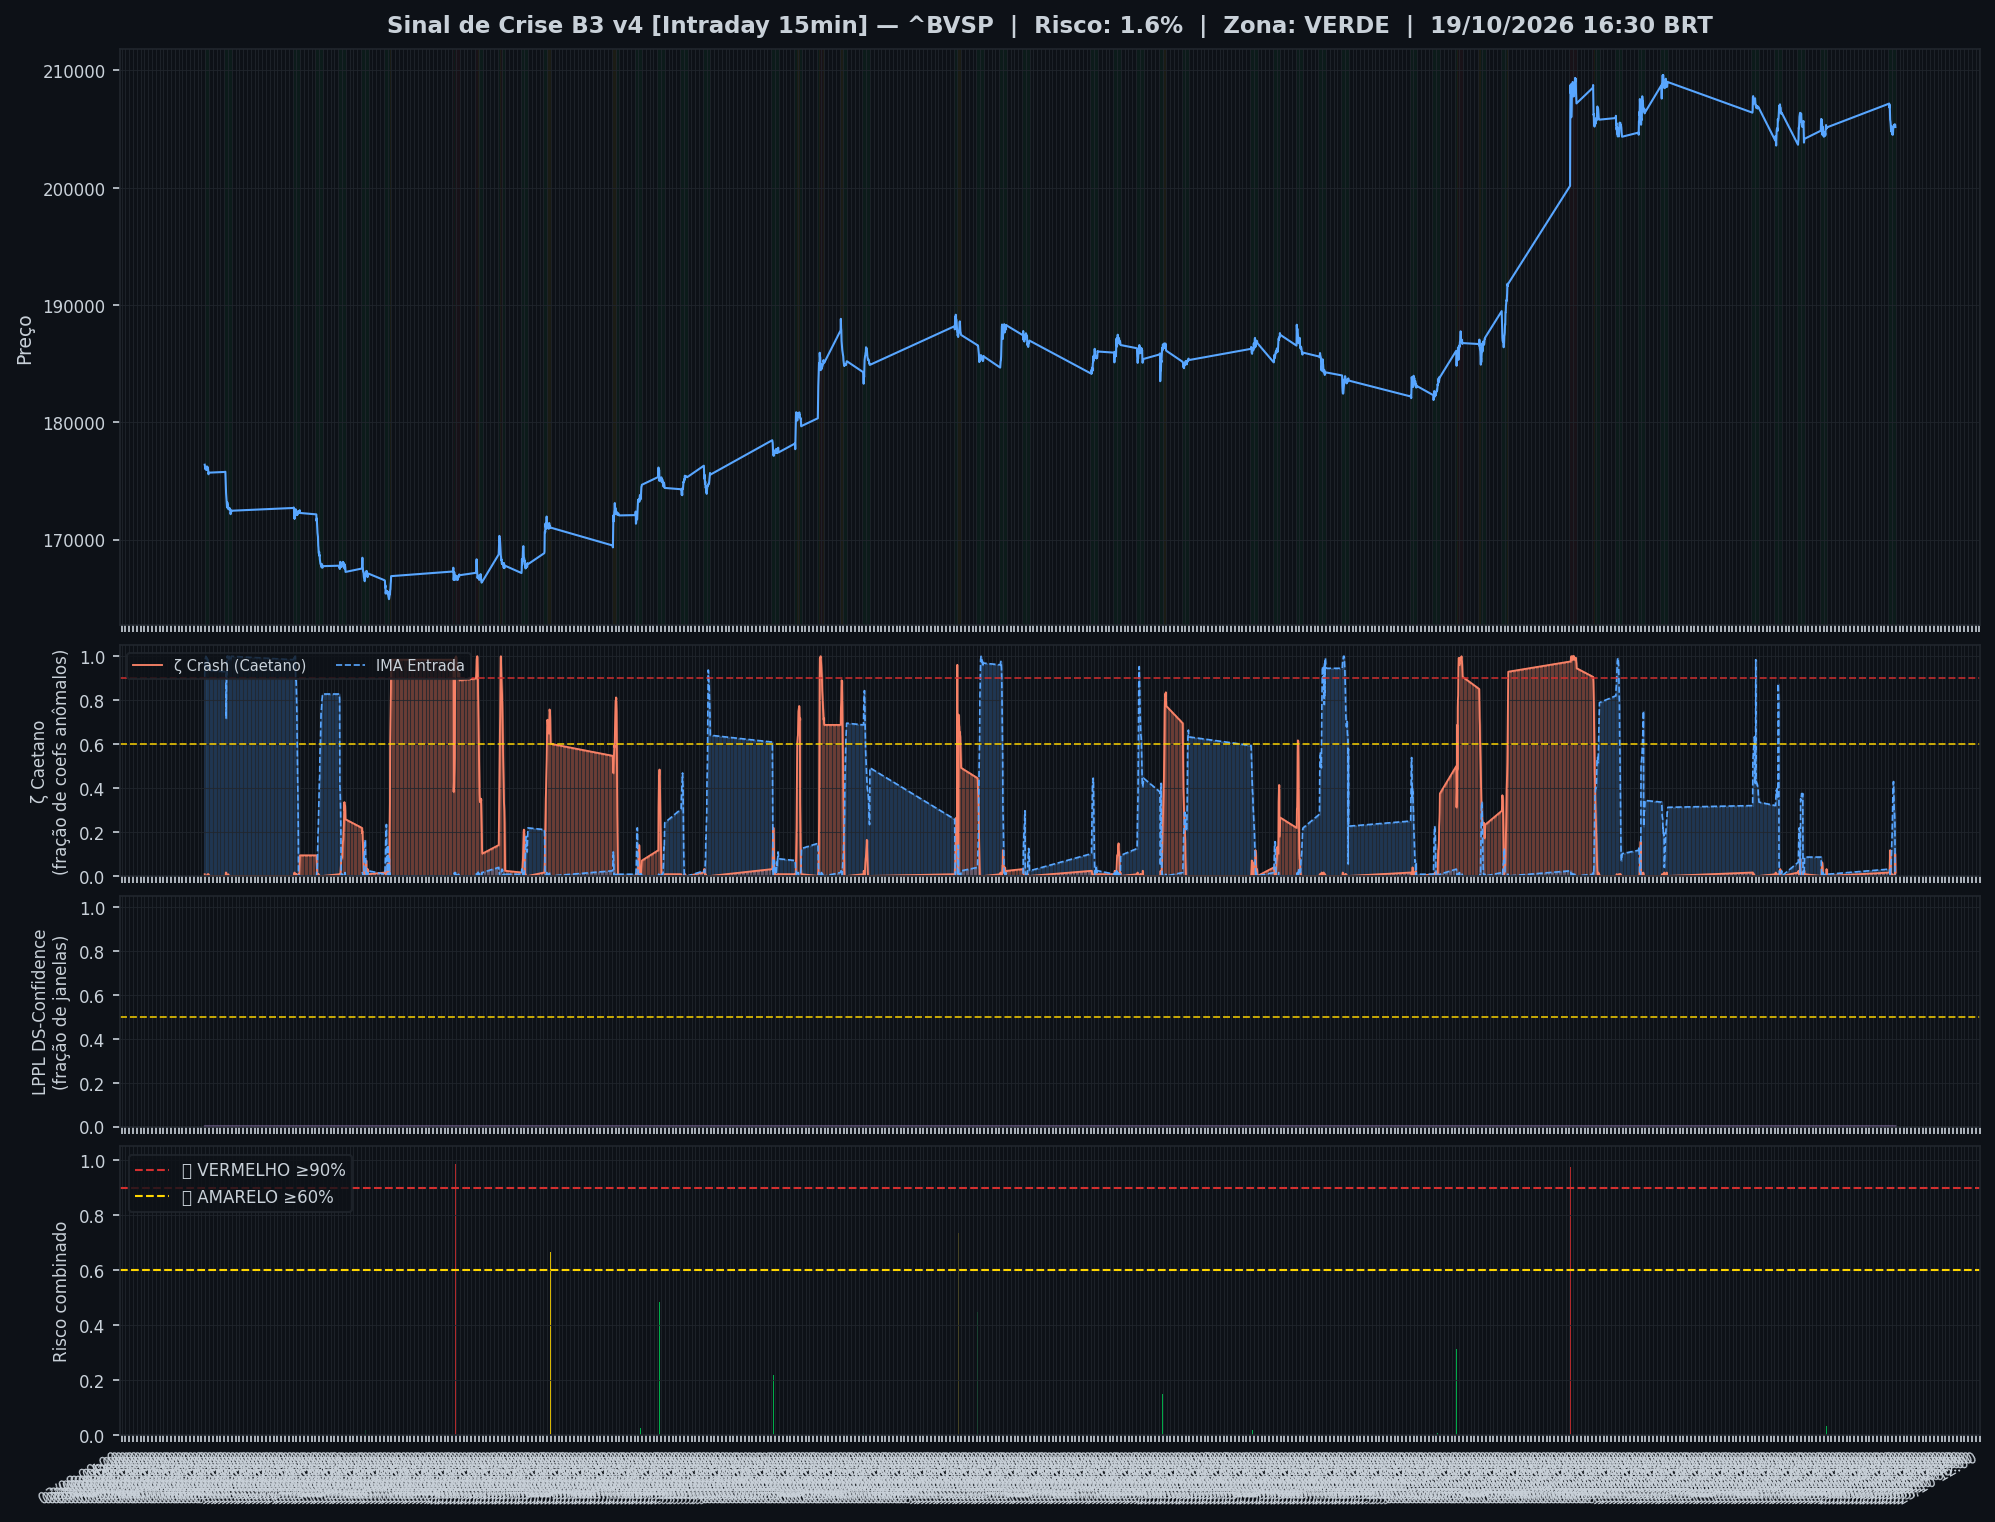
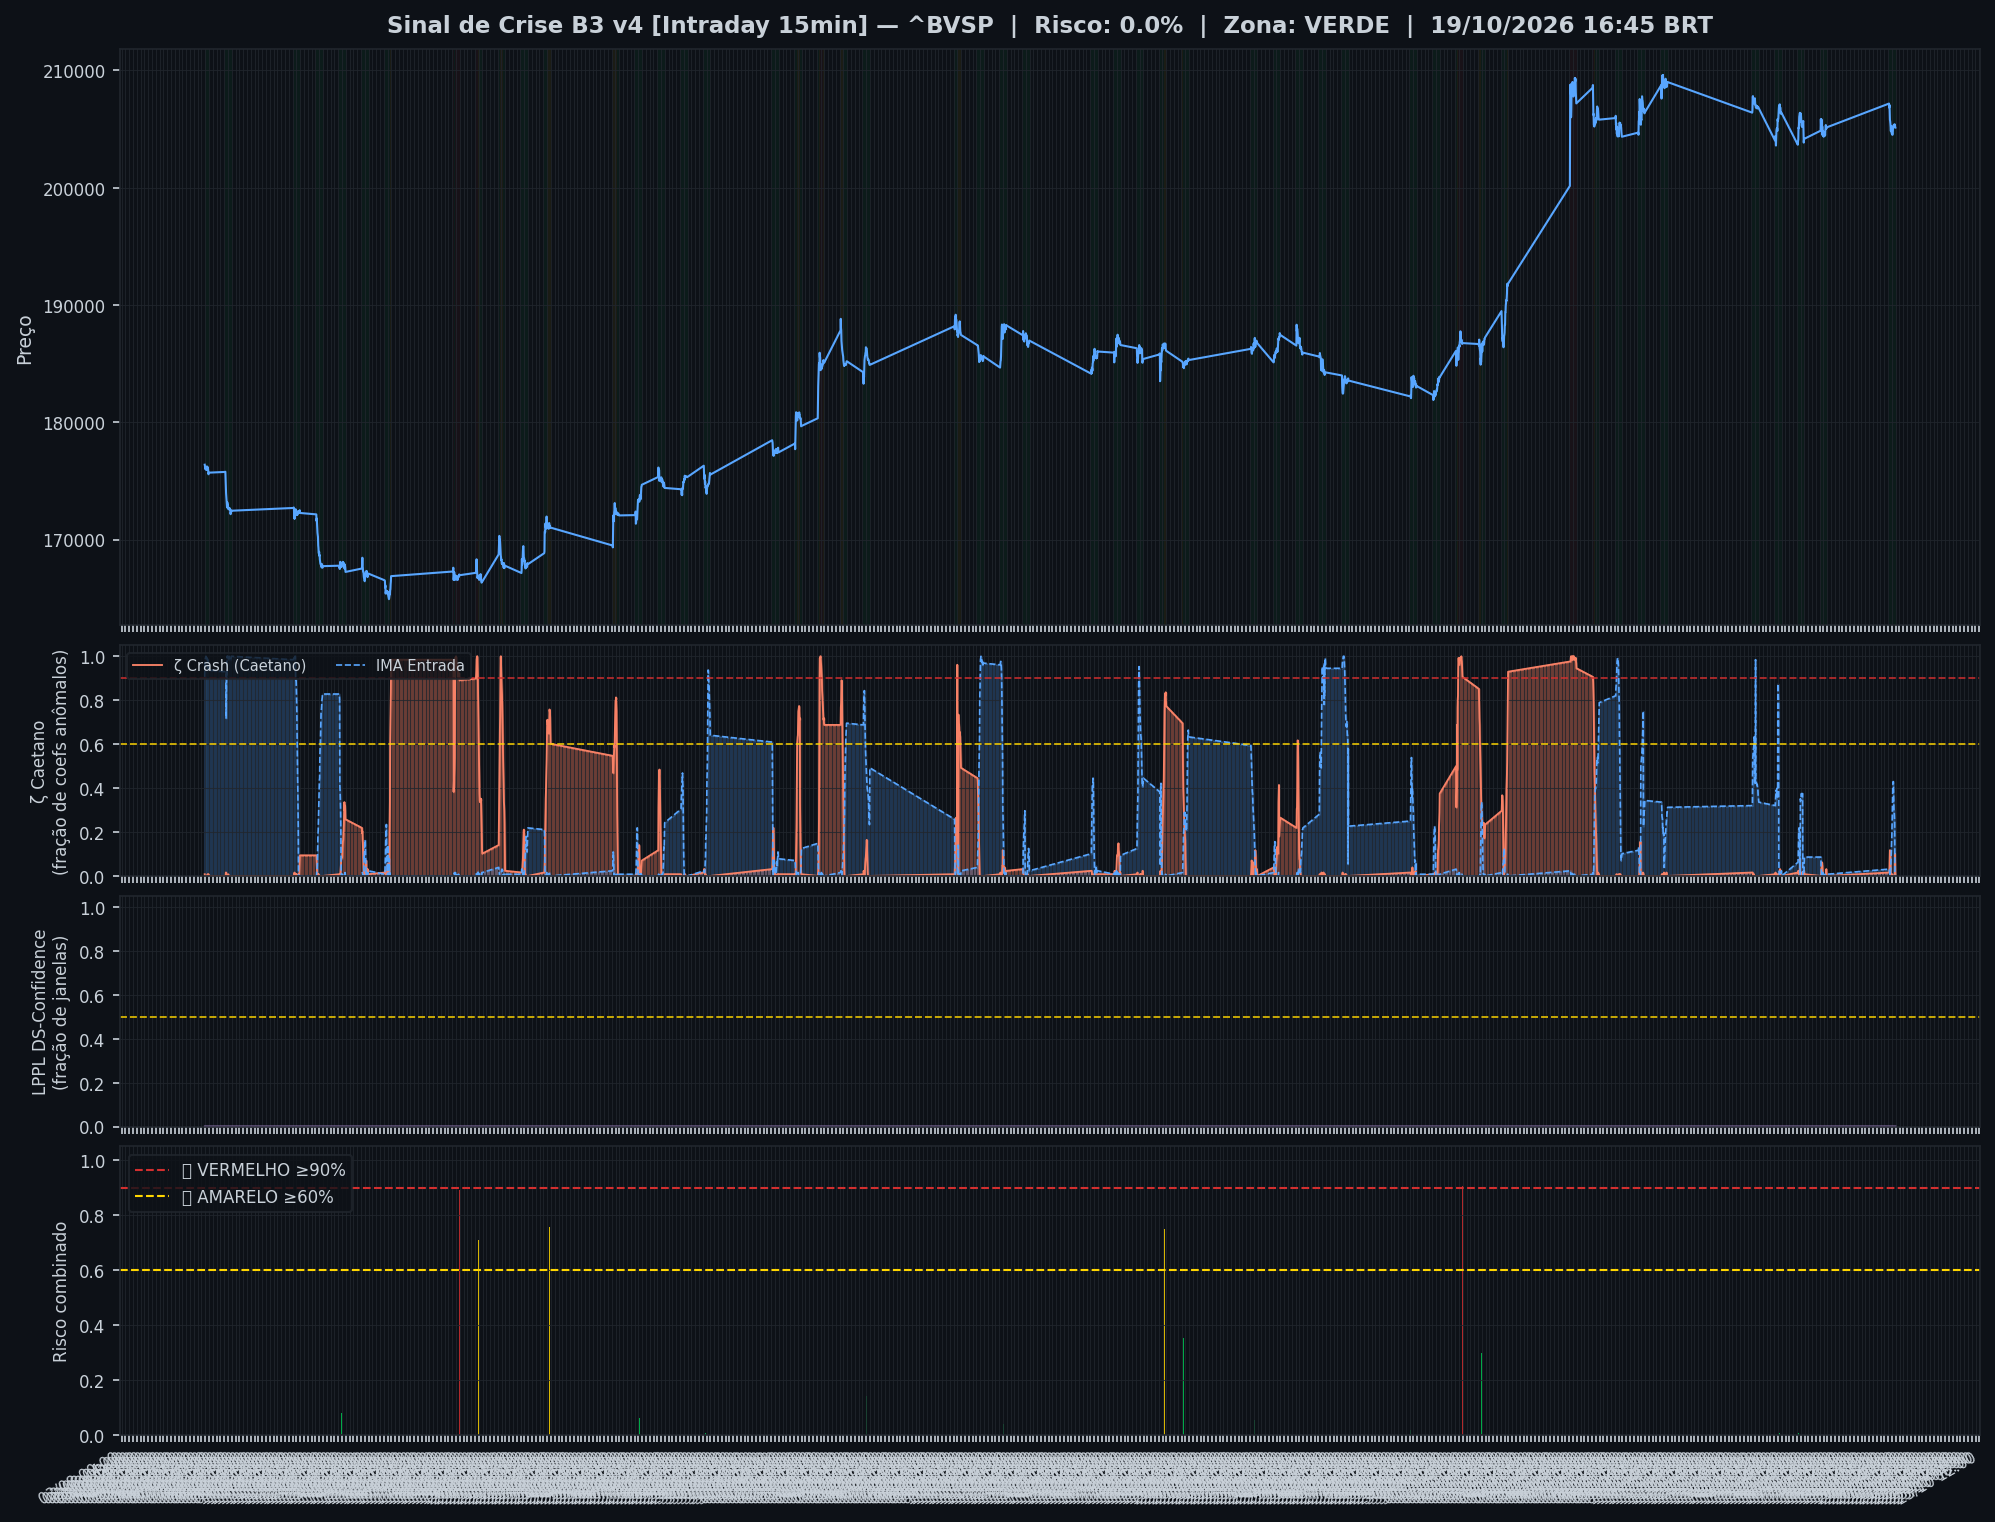
🤖 Auto: Sinal 19/10/2026 17:30

diff --git a/content/intraday/2026-10-19.md b/content/intraday/2026-10-19.md
@@ -1,20 +1,20 @@
 ---
-title: "🟢 Intraday 19/10/2026 16:30 BRT — VERDE"
+title: "🟢 Intraday 19/10/2026 16:45 BRT — VERDE"
 date: 2026-10-19
 tags: [intraday]
 ---
 
-> [!success] 🟢 **VERDE** — Risco 2% · ▼ -5 p.p. vs leitura anterior
+> [!success] 🟢 **VERDE** — Risco 0% · ▼ -2 p.p. vs leitura anterior
 > `░░░░░░░░░░░░░░░░░░░░`
 > Mercado sem sinais relevantes de estresse.
 
 
 | Indicador | Valor |
 |---|---|
-| 🔴 ζ Crash — severidade da queda em curso | **2%** |
+| 🔴 ζ Crash — severidade da queda em curso | **0%** |
 | 🔵 ζ Entrada — estrutura de fundo | 0% |
 | 🫧 LPPL DS-Confidence | 0% |
-| 📊 Ibovespa | 205.178 pts |
+| 📊 Ibovespa | 205.126 pts |
 
 ![Gráfico do sinal](../graficos/sinal_intraday.png)
 
@@ -22,6 +22,7 @@ tags: [intraday]
 
 | Data | Zona | Risco | IMA Crash | Entrada | LPPL |
 |---|---|---|---|---|---|
+| 2026-10-19 16:45 | 🟢 VERDE | **0%** | 0% | 0% | 0% |
 | 2026-10-19 16:30 | 🟢 VERDE | **2%** | 2% | 0% | 0% |
 | 2026-10-19 16:15 | 🟢 VERDE | **7%** | 7% | 0% | 0% |
 | 2026-10-19 16:00 | 🟢 VERDE | **10%** | 10% | 0% | 0% |
@@ -51,7 +52,6 @@ tags: [intraday]
 | 2026-10-19 10:00 | 🟢 VERDE | **2%** | 2% | 3% | 0% |
 | 2026-10-16 16:45 | 🟢 VERDE | **0%** | 0% | 1% | 0% |
 | 2026-10-16 16:30 | 🟢 VERDE | **0%** | 0% | 1% | 0% |
-| 2026-10-16 16:15 | 🟢 VERDE | **1%** | 1% | 1% | 0% |
 
 ## Monitor Multi-Ativo
 
@@ -82,11 +82,11 @@ tags: [intraday]
 | 🟢 | **VIBRA** | Energia | 50.8% | 0.0% |
 | 🟢 | **ULTRAPAR** | Outros | 50.8% | 0.0% |
 | 🟢 | **GERDAU** | Siderurgia | 50.8% | 0.0% |
-| 🟢 | **USD/BRL** | Câmbio | 43.0% | 4.7% |
+| 🟢 | **USD/BRL** | Câmbio | 40.6% | 10.9% |
 
 ![Monitor multi-ativo](../graficos/multi_intraday.png)
 
-*Página atualizada em 19/10/2026 17:15 BRT (leitura da barra de 2026-10-19 16:30 BRT).*
+*Página atualizada em 19/10/2026 17:30 BRT (leitura da barra de 2026-10-19 16:45 BRT).*
 
 > [!info]- Como interpretar (clique para expandir)
 > - **ζ Crash**: fração dos coeficientes wavelet acima do corte (Caetano & Yoneyama 2009). Escala absoluta: ζ=0,90 = 90% dos coeficientes anômalos — historicamente, quedas com ζ≥0,90 foram mais fundas e mais longas. **Mede a severidade do movimento em curso, não prevê o início da queda.**

diff --git a/content/index.md b/content/index.md
@@ -8,19 +8,19 @@ tags: [home]
 
 Monitoramento diário e intraday do Ibovespa — **IMA Wavelet** (Prof. Marco Antonio Leonel Caetano, ITA/INSPER) + **LPPL DS-Confidence** (Prof. Didier Sornette, ETH-Zurich).
 
-*Última atualização: 19/10/2026 17:15 BRT · ^BVSP · Intraday 15min · v4*
+*Última atualização: 19/10/2026 17:30 BRT · ^BVSP · Intraday 15min · v4*
 
-> [!success] 🟢 **VERDE** — Risco 2% · ▼ -5 p.p. vs leitura anterior
+> [!success] 🟢 **VERDE** — Risco 0% · ▼ -2 p.p. vs leitura anterior
 > `░░░░░░░░░░░░░░░░░░░░`
 > Mercado sem sinais relevantes de estresse.
 
 
 | Indicador | Valor |
 |---|---|
-| 🔴 ζ Crash — severidade da queda em curso | **2%** |
+| 🔴 ζ Crash — severidade da queda em curso | **0%** |
 | 🔵 ζ Entrada — estrutura de fundo | 0% |
 | 🫧 LPPL DS-Confidence | 0% |
-| 📊 Ibovespa | 205.178 pts |
+| 📊 Ibovespa | 205.126 pts |
 
 **Multi-ativo:** 0% em tensão (0🔴 0🟡 de 24 ativos)
 
@@ -32,7 +32,7 @@ Monitoramento diário e intraday do Ibovespa — **IMA Wavelet** (Prof. Marco An
 
 | Data | Zona | Risco | IMA | LPPL |
 |---|---|---|---|---|
-| [19 Oct 2026](diario/2026-10-19) | 🟢 VERDE | **2%** | 2% | 0% |
+| [19 Oct 2026](diario/2026-10-19) | 🟢 VERDE | **0%** | 0% | 0% |
 | [16 Oct 2026](diario/2026-10-16) | 🟢 VERDE | **0%** | 0% | 0% |
 
 ## Navegação

diff --git a/content/historico.md b/content/historico.md
@@ -7,6 +7,7 @@ tags: [historico]
 
 | Data | Modo | Zona | Risco | IMA | LPPL |
 |---|---|---|---|---|---|
+| 2026-10-19 16:45 | intraday | 🟢 VERDE | 0% | 0% | 0% |
 | 2026-10-19 16:30 | intraday | 🟢 VERDE | 2% | 2% | 0% |
 | 2026-10-19 16:15 | intraday | 🟢 VERDE | 7% | 7% | 0% |
 | 2026-10-19 16:00 | intraday | 🟢 VERDE | 10% | 10% | 0% |
